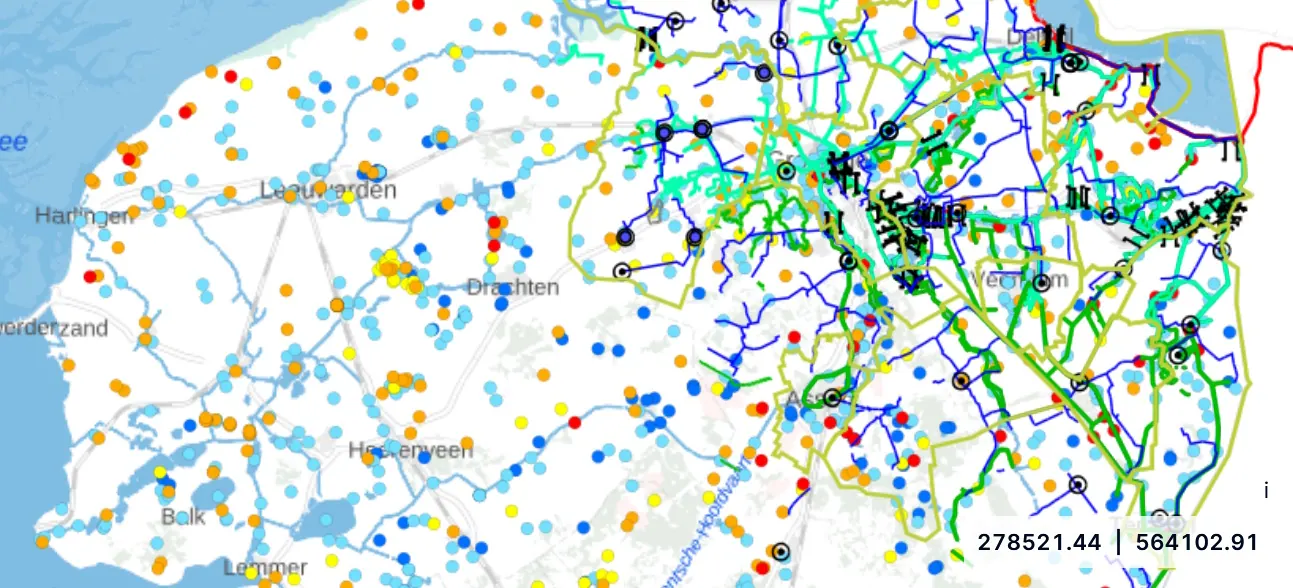
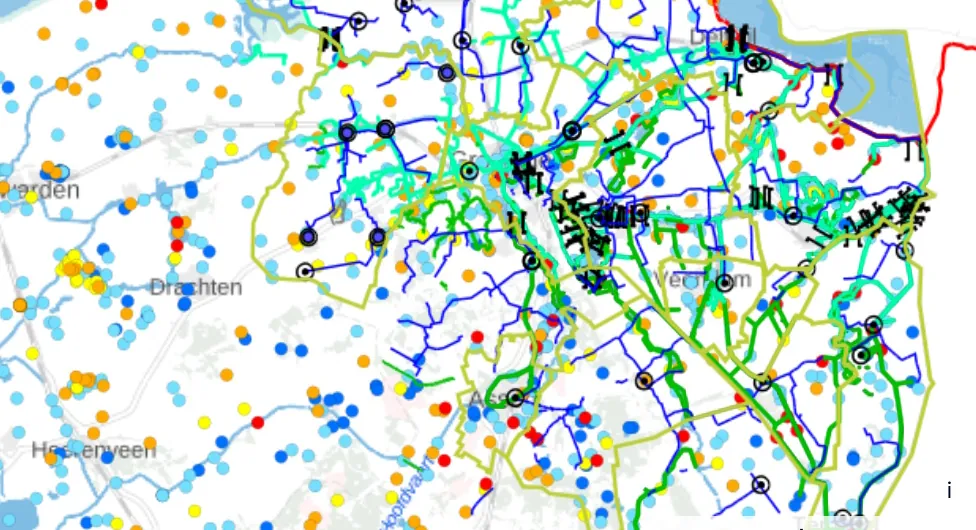
Hoofdpagina na eindcontrole: staander aan de kop, peilingring, datasheet op laptop, tekstafstand
De oranje staander hangt nu aan de korpsgrootte van de kop en snijdt
AUTONOMIE. op elke breedte; op mobiel stopt hij boven de lead. De
peilingring blijft boven de knoppen. De datasheet krijgt op 821 tot
1100 px een eigen maat en afbreekstreepjes. Het DSG-beeld toont
Groningen in plaats van Friesland. Tekstafstand (WCAG 1.4.12) breekt de
datum op telefoons niet meer uit beeld. Skiplink fixed, main focusbaar,
noscript-melding bij de peiling, tellers met 'signalen' als naam. De
FAQ volgt nu de bestelvlag, ook als build.py die doorgeeft.

diff --git a/tools/switchpage.py b/tools/switchpage.py
@@ -40,7 +40,9 @@ FAQ_BESTELZIN = {
     True: "Bestellen gaat via de uitstaptoets, vanuit je eigen uitkomst.",
 }
 
-FAQ = [
+def faq_lijst(bestel_aan):
+    """De veelgestelde vragen; de laatste zin van vraag 5 volgt de bestelvlag."""
+    return [
     ("Wat is digitale autonomie voor een overheid?",
      "Dat een overheid zelf kan kiezen. Per kritieke leverancier weten waar je data staat, of je die kunt "
      "meenemen en of er een alternatief is, zodat je blijft functioneren als een leverancier stopt, de prijs "
@@ -64,7 +66,7 @@ FAQ = [
      "Cbw-risicoanalyse, een agendapunt voor het bestuur, exitclausules voor je volgende aanbesteding, de "
      "eerste negentig dagen en een vergelijking met andere gemeenten. Het rapport kost 750 euro exclusief "
      "btw (907,50 euro inclusief), eenmalig. Een hermeting na een jaar kost 250 euro. "
-     + FAQ_BESTELZIN[BESTEL_AAN]),
+     + FAQ_BESTELZIN[bestel_aan]),
     ("Is dit juridisch advies? Zijn we hiermee compliant?",
      "Nee, en nee. Het rapport is input voor je eigen risicoanalyse en geen oordeel over naleving van de "
      "Cyberbeveiligingswet, de Data Act of het cloudbeleid. Het benoemt wat je weet, wat je niet weet en "
@@ -150,9 +152,9 @@ def overzicht_quote(n, q):
       </article>'''
 
 
-def faq_html():
+def faq_html(faq):
     out = []
-    for vraag, antwoord in FAQ:
+    for vraag, antwoord in faq:
         out.append(f'''    <details>
       <summary><h3>{html.escape(vraag)}</h3></summary>
       <div><p>{html.escape(antwoord)}</p></div>
@@ -166,9 +168,9 @@ def register_html():
         for i, (k, u) in enumerate(REGISTER, 1))
 
 
-def jsonld(cases):
+def jsonld(faq, bestel_aan):
     gewijzigd = TODAY.isoformat()  # de pagina verandert bij elke bouw (stand, tellers)
-    beschikbaar = "https://schema.org/InStock" if BESTEL_AAN else "https://schema.org/PreOrder"
+    beschikbaar = "https://schema.org/InStock" if bestel_aan else "https://schema.org/PreOrder"
     org = {
         "@type": "Organization", "@id": f"{BASE}/#organization",
         "name": "Will Switch", "alternateName": "willswitch.nl", "url": f"{BASE}/",
@@ -224,10 +226,10 @@ def jsonld(cases):
                "areaServed": {"@type": "Country", "name": "Nederland"},
                "audience": {"@type": "Audience", "audienceType": "Gemeenten, provincies, waterschappen, Rijk, zbo's en onderwijsinstellingen"},
                "offers": [offer("Uitstaprapport, eenmalig", "750.00"), offer("Hermeting na een jaar", "250.00")]}
-    faq = {"@type": "FAQPage", "@id": f"{BASE}/switch.html#faq",
-           "mainEntity": [{"@type": "Question", "name": v,
-                           "acceptedAnswer": {"@type": "Answer", "text": a}} for v, a in FAQ]}
-    graph = {"@context": "https://schema.org", "@graph": [org, site, page, toets, rapport, faq]}
+    faqpage = {"@type": "FAQPage", "@id": f"{BASE}/switch.html#faq",
+               "mainEntity": [{"@type": "Question", "name": v,
+                               "acceptedAnswer": {"@type": "Answer", "text": a}} for v, a in faq]}
+    graph = {"@context": "https://schema.org", "@graph": [org, site, page, toets, rapport, faqpage]}
     # '</' ontsnappen zodat een tekst met </script> het scriptblok nooit kan afbreken
     return json.dumps(graph, ensure_ascii=False, indent=2).replace("</", "<\\/")
 
@@ -246,6 +248,7 @@ CSS = """
   --lijn:rgba(26,22,18,.16); --oranje:#E84500; --knop:#D63F00; --link:#B83500;
   --op-inkt:rgba(240,237,230,.78); --op-inkt-2:rgba(240,237,230,.7); --lijn-inkt:rgba(240,237,230,.25);
   --mono:ui-monospace, 'Cascadia Mono', Consolas, Menlo, monospace;
+  --kop:clamp(80px, 9vw, 120px);
 }
 *, *::before, *::after { margin:0; padding:0; box-sizing:border-box; }
 html { overflow-x:clip; scrollbar-gutter:stable; scroll-behavior:smooth; }
@@ -287,10 +290,11 @@ header.top .w { display:flex; align-items:center; justify-content:space-between;
 .merk { display:flex; align-items:center; gap:18px; text-decoration:none; }
 .merk img { height:36px; width:auto; display:block; }
 .merk span { font-family:var(--mono); font-size:12px; letter-spacing:.08em; text-transform:uppercase; color:var(--zacht); line-height:1.5; padding-left:18px; border-left:1px solid var(--inkt); }
-.skip { position:absolute; left:-999px; top:8px; z-index:10; background:var(--inkt); color:var(--papier); padding:10px 14px; font-weight:700; text-decoration:none; }
+.skip { position:fixed; left:-999px; top:8px; z-index:10; background:var(--inkt); color:var(--papier); padding:10px 14px; font-weight:700; text-decoration:none; }
 .skip:focus { left:16px; }
+main:focus { outline:none; }
 nav.hoofd { display:flex; align-items:center; gap:32px; font-size:16px; }
-nav.hoofd a.l { text-decoration:none; padding:10px 0; }
+nav.hoofd a.l { text-decoration:none; padding:11px 0; }
 nav.hoofd a.l:hover { text-decoration:underline; text-underline-offset:4px; }
 nav.hoofd .kort { display:none; }
 
@@ -308,14 +312,17 @@ html:not(.js) .marge { opacity:1; }
 /* hero: de portal in een cirkel, de kop eroverheen */
 .hero { position:relative; overflow:hidden; min-height:760px; padding:56px 0 64px; background:var(--papier); }
 .hero .w { position:relative; display:grid; grid-template-columns:minmax(0, 1fr) auto; gap:24px; align-items:start; }
-.staander { position:absolute; top:-57px; right:calc(clamp(440px, 50vw, 640px) - 216px); width:96px; height:420px; background:var(--oranje); z-index:2; }
+/* De staander hangt aan de kop: 'AUTONOMIE.' is op elke breedte 6,09 keer de korpsgrootte breed,
+   het blok begint op 5,75 keer, zodat 'E.' er 40 px overheen loopt. */
+.staander { position:absolute; top:-57px; left:calc(var(--kop) * 5.75); width:96px; height:420px; background:var(--oranje); z-index:0; }
 .hero-tekst { grid-column:1; grid-row:1; position:relative; z-index:3; }
+.hero h1 { position:relative; z-index:1; }
 .hero h1 .vraag {
   display:block; font-family:var(--mono); font-size:15px; font-weight:400;
   letter-spacing:.1em; text-transform:uppercase; line-height:1.6; margin-bottom:28px;
 }
 .hero h1 .groot {
-  display:block; font-size:clamp(80px, 9vw, 120px); font-weight:800; text-transform:uppercase;
+  display:block; font-size:var(--kop); font-weight:800; text-transform:uppercase;
   line-height:.88; letter-spacing:-.035em; white-space:nowrap;
 }
 .hero .lead { margin-top:32px; font-size:24px; line-height:1.3; max-width:30ch; }
@@ -326,7 +333,7 @@ html:not(.js) .marge { opacity:1; }
 .hero .acties { flex-direction:column; align-items:flex-start; gap:12px; }
 .hero-link { margin-top:18px; }
 .portal-wrap { grid-column:2; grid-row:1; position:relative; width:clamp(440px, 50vw, 640px); aspect-ratio:1; margin-top:180px; margin-right:-40px; }
-@media (min-width:1400px) { .portal-wrap { margin-right:-180px; } .staander { right:calc(640px - 216px - 140px); } }
+@media (min-width:1400px) { .portal-wrap { margin-right:-180px; } }
 .portal {
   position:relative; z-index:1; width:100%; height:100%; border-radius:50%; overflow:hidden;
   background:#cfd4cf url('/switch-hero.webp') 13% 64% / auto 140% no-repeat;
@@ -392,7 +399,7 @@ html:not(.js) .marge { opacity:1; }
 table.datasheet { width:100%; table-layout:fixed; border-collapse:collapse; border-top:2px solid var(--papier); }
 .datasheet .c-strook { width:12px; }
 .datasheet .c-status { width:88px; }
-.datasheet .c-kader { width:40%; }
+.datasheet .c-kader { width:42%; }
 .datasheet tr { border-bottom:1px solid var(--lijn-inkt); vertical-align:top; }
 .datasheet td, .datasheet th { padding:24px 16px; text-align:left; }
 .datasheet td.strook { width:12px; padding:0; }
@@ -401,7 +408,13 @@ table.datasheet { width:100%; table-layout:fixed; border-collapse:collapse; bord
 .datasheet td.strook.omlijnd { box-shadow:inset 0 0 0 1.5px var(--papier); }
 .datasheet td.status { font-family:var(--mono); font-size:12px; text-transform:uppercase; letter-spacing:.06em; color:var(--papier); white-space:nowrap; padding-left:12px; padding-right:8px; }
 .datasheet th { padding-left:0; }
-.datasheet th h3 { font-size:22px; line-height:1.1; overflow-wrap:anywhere; }
+.datasheet th h3 { font-size:22px; line-height:1.1; hyphens:auto; }
+@media (min-width:821px) and (max-width:1100px) {
+  .datasheet th h3 { font-size:20px; }
+  .datasheet .c-kader { width:46%; }
+  .datasheet td.wat p { font-size:16px; }
+  .wetgeving .rij2 { grid-template-columns:4fr 8fr; gap:32px; }
+}
 .datasheet th .sub { display:block; font-size:15px; font-weight:400; color:var(--op-inkt-2); margin-top:6px; }
 .datasheet th .sinds { display:block; font-family:var(--mono); font-size:12px; font-weight:400; color:var(--op-inkt-2); line-height:1.6; margin-top:14px; }
 .datasheet td.wat p { font-size:17px; color:rgba(240,237,230,.86); max-width:48ch; }
@@ -543,7 +556,8 @@ figure.uitsteek img { width:100%; height:auto; aspect-ratio:16/10; object-fit:co
 .movement-btn.selected { background:var(--knop); border-color:var(--knop); color:#fff; }
 .movement-btn.selected .count { color:#fff; }
 .movement-btn.pulse { transform:scale(1.03); }
-.ring.orbit-open { width:620px; height:620px; border-width:1.5px; opacity:.6; right:-200px; top:-300px; }
+.ring.orbit-open { width:560px; height:560px; border-width:1.5px; opacity:.6; right:-220px; top:-340px; }
+.movement-grid { position:relative; z-index:1; }
 .ring.orbit-open::before { content:""; position:absolute; top:-4px; left:50%; width:24px; height:8px; background:var(--inkt); }
 
 /* agenda en supporters */
@@ -601,23 +615,26 @@ html:not(.js) .tabelwrap td.strook.oranje { transform:none; }
 @media (max-width:820px) {
   .w { padding:0 16px; }
   header.top .w { min-height:64px; }
-  .merk img { height:30px; }
+  .merk { flex-shrink:0; }
+  .merk img { max-width:none; height:26px; }
+  nav.hoofd .knop { padding:0 14px; }
   .merk span { display:none; }
-  nav.hoofd { gap:16px; font-size:15px; }
+  nav.hoofd { gap:12px; font-size:15px; }
   nav.hoofd .lang { display:none; }
   nav.hoofd .kort { display:inline; }
   .hero { min-height:0; padding:32px 0 48px; }
   .hero .w { display:block; }
-  .staander { top:-33px; left:auto; right:16px; width:40px; height:290px; }
+  :root { --kop:clamp(40px, 13vw, 64px); }
+  .staander { top:-33px; left:auto; right:0; width:40px; height:224px; }
   .hero h1 .vraag { font-size:13px; }
-  .hero h1 .groot { font-size:clamp(40px, 13vw, 64px); letter-spacing:-.04em; line-height:.9; white-space:normal; overflow-wrap:anywhere; }
+  .hero h1 .groot { letter-spacing:-.04em; line-height:.9; white-space:normal; overflow-wrap:anywhere; }
   .portal-wrap { width:min(88vw, 560px); margin-left:auto; margin-right:-14vw; margin-top:12px; }
   .ring.orbit { display:none; }
-  .tekstlink { display:inline-block; padding:9px 0; margin-bottom:-9px; }
+  .tekstlink { display:inline-block; padding:10px 0; margin-bottom:-10px; }
+  .agenda .what a, .credits .context a, footer.site a { display:inline-block; padding:10px 0; margin:-10px 0; }
   .merk { padding:7px 0; }
   nav.hoofd a.l { padding:11px 0; }
   .fonds { padding:8px 0; }
-  .wetgeving .rij0, .datasheet td.status, .datasheet th .sinds, .prijs .mono, .opschrift, .item .kicker, .item.quote .attr, .tegel .mono, .item .vlag { font-size:13px; }
   .hero .lead { font-size:20px; margin-top:24px; }
   .hero .sub { font-size:17px; }
   .hero .acties { margin-top:24px; }
@@ -636,10 +653,10 @@ html:not(.js) .tabelwrap td.strook.oranje { transform:none; }
   .citaat .lijn { width:4px; top:-40px; bottom:-40px; }
   .stemmen .ring { width:360px; height:360px; left:-200px; top:-120px; }
   .wetgeving { padding:48px 0 0; }
-  .wetgeving .rij1, .wetgeving .rij2 { grid-template-columns:1fr; gap:24px; }
+  .wetgeving .rij1, .wetgeving .rij2 { grid-template-columns:minmax(0, 1fr); gap:24px; }
   .wetgeving h2 { font-size:32px; }
   .ladder .d { font-size:44px; }
-  .ladder .datum { font-size:clamp(64px, 22vw, 88px); }
+  .ladder .datum { font-size:clamp(56px, 17vw, 88px); }
   .datasheet colgroup { display:none; }
   table.datasheet, .datasheet tbody, .datasheet tr, .datasheet th, .datasheet td { display:block; width:auto; }
   .datasheet tr { border-top:1px solid var(--lijn-inkt); border-bottom:0; padding:20px 0 20px 16px; position:relative; }
@@ -669,7 +686,7 @@ html:not(.js) .tabelwrap td.strook.oranje { transform:none; }
   .verhalen h2 { font-size:32px; }
   .verhalen .ring { display:none; }
   figure.uitsteek { margin:0 -16px; }
-  figure.uitsteek img { aspect-ratio:4/3; }
+  figure.uitsteek img { aspect-ratio:4/3; object-position:70% 50%; }
   .klein-verhalen article { grid-template-columns:1fr; }
   .tegel { aspect-ratio:auto; height:120px; }
   .overzicht { padding:0 0 40px; }
@@ -693,6 +710,7 @@ html:not(.js) .tabelwrap td.strook.oranje { transform:none; }
   footer.site .w { flex-direction:column; align-items:flex-start; gap:12px; }
 }
 
+@media (max-width:400px) { nav.hoofd a.l { display:none; } }
 @media (prefers-reduced-motion: reduce) {
   html { scroll-behavior:auto; }
   .kraak .k-tekst, .datum.kraak .s, .portal::before, .portal::after, .uitsteek::before, .uitsteek::after { animation:none !important; }
@@ -775,6 +793,7 @@ MOVEMENT_SCRIPT = """
       function setCount(phase, value) {
         countEl(phase).textContent = value;
         countEl(phase).removeAttribute('aria-hidden');
+        countEl(phase).setAttribute('aria-label', value + ' signalen');
       }
       function onthoud(phase) {
         try { localStorage.setItem(STORAGE_KEY, phase); } catch (e) {}
@@ -925,10 +944,10 @@ PAGE = """<!DOCTYPE html>
   <nav class="hoofd" aria-label="Hoofdnavigatie"><a class="l" href="#verhalen">Praktijk</a><a class="l" href="#rapport">Rapport</a><a class="knop" href="/scan/"><span class="lang">Uitstaptoets</span><span class="kort">Toets</span> <span aria-hidden="true">&rarr;</span></a></nav>
 </div></header>
 
-<main id="inhoud">
+<main id="inhoud" tabindex="-1">
 <section class="hero" data-kraak><div class="w">
-  <div class="staander" aria-hidden="true"></div>
   <div class="hero-tekst">
+    <div class="staander" aria-hidden="true"></div>
     <h1><span class="vraag">Kun je nog weg<br>bij je<br>leveranciers?</span><span class="groot k-tekst">Digitale<br>autonomie.</span></h1>
     <p class="lead">Niet alles hoeft anders. Maar je moet wel kunnen kiezen.</p>
     <p class="sub">Sinds 15 augustus 2026 moet je bestuur die vraag per leverancier kunnen beantwoorden. De gratis uitstaptoets laat in een kwartier zien waar je staat. Het uitstaprapport zegt wat je daarna doet.</p>
@@ -996,7 +1015,7 @@ PAGE = """<!DOCTYPE html>
           <tr role="row">
             <td class="strook oranje" role="cell"></td>
             <td class="status" role="cell">nu</td>
-            <th scope="row" role="rowheader"><h3>Cyberbeveiligingswet: ketenzorgplicht per leverancier</h3><span class="sub">Van kracht sinds 15 augustus 2026</span><span class="sinds">wet, voor Rijk, zbo's, gemeenten, provincies en waterschappen<br>de zorgplicht geldt al</span></th>
+            <th scope="row" role="rowheader"><h3>Cyberbeveiligings&shy;wet: ketenzorgplicht per leverancier</h3><span class="sub">Van kracht sinds 15 augustus 2026</span><span class="sinds">wet, voor Rijk, zbo's, gemeenten, provincies en waterschappen<br>de zorgplicht geldt al</span></th>
             <td class="wat" role="cell">
               <p>Per leverancier moet je kunnen aantonen wat er gebeurt bij contracteinde, faillissement of overname. Het bestuur is eindverantwoordelijk, en de toezichthouder kan ernaar vragen.</p>
               {link_cbw}
@@ -1098,7 +1117,7 @@ PAGE = """<!DOCTYPE html>
     </div>
     <div>
       <figure class="uitsteek" style="--src:url(/dsg-viewer.webp)" data-kraak>
-        <img src="/dsg-viewer.webp" alt="Kaartviewer van Data Space Groningen" width="1293" height="588" loading="lazy">
+        <img src="/dsg-viewer.webp" alt="Kaartviewer van Data Space Groningen" width="976" height="530" loading="lazy">
         <figcaption class="opschrift marge">data space groningen<br>samen data, meer waarde<br>17 organisaties, 1 open platform</figcaption>
       </figure>
       <div class="dsg-tekst">
@@ -1134,6 +1153,7 @@ PAGE = """<!DOCTYPE html>
       <button class="movement-btn" data-phase="overstap" type="button" aria-pressed="false"><span class="label">We stappen over</span><span class="count" data-count aria-hidden="true">&middot;</span></button>
       <button class="movement-btn" data-phase="verder" type="button" aria-pressed="false"><span class="label">We zijn al verder</span><span class="count" data-count aria-hidden="true">&middot;</span></button>
     </div>
+    <noscript><style>.movement-grid, .movement .confirm {{ display:none; }}</style><p class="sub">De peiling werkt alleen met JavaScript.</p></noscript>
   </div>
 </section>
 
@@ -1180,10 +1200,11 @@ PAGE = """<!DOCTYPE html>
 """
 
 
-def build_switch(cases):
+def build_switch(cases, bestel_aan=BESTEL_AAN):
     """Maak switch.html uit de gepubliceerde cases en de quotes.
     De nummering wordt hier geschreven, niet in de browser."""
     ids = [c["id"] for c in cases]
+    faq = faq_lijst(bestel_aan)
     blokken = []
     n = 0
     for c in cases:
@@ -1195,7 +1216,12 @@ def build_switch(cases):
 
     dagen_cbw = (TODAY - CBW_DATUM).days
     dagen_dataact = (DATAACT_DATUM - TODAY).days
-    teller_cbw = f"de zorgplicht geldt al {dagen_cbw} dagen" if dagen_cbw >= 0 else "de zorgplicht gaat in op 15.08.2026"
+    if dagen_cbw > 0:
+        teller_cbw = f"de zorgplicht geldt al {dagen_cbw} dagen"
+    elif dagen_cbw == 0:
+        teller_cbw = "de zorgplicht geldt sinds vandaag"
+    else:
+        teller_cbw = "de zorgplicht gaat in op 15.08.2026"
     teller_dataact = (f"nog {dagen_dataact} dagen tot de Data Act" if dagen_dataact > 0
                       else "de Data Act geldt sinds 12.01.2027")
 
@@ -1205,7 +1231,7 @@ def build_switch(cases):
         titel=TITEL,
         omschrijving=OMSCHRIJVING,
         hero_alt=HERO_ALT,
-        jsonld=jsonld(cases),
+        jsonld=jsonld(faq, bestel_aan),
         stand=TODAY.strftime("%d.%m.%Y"),
         teller_cbw=teller_cbw,
         teller_dataact=teller_dataact,
@@ -1213,8 +1239,8 @@ def build_switch(cases):
         link_dataact=case_link(ids, "dataact", "Wat de Data Act regelt als je van cloud wilt overstappen"),
         link_cloudbeleid=case_link(ids, "cloudbeleid", "Wat het rijksbreed cloudbeleid eist"),
         register=register_html(),
-        bestel_tekst=BESTEL_TEKST[BESTEL_AAN],
-        faq=faq_html(),
+        bestel_tekst=BESTEL_TEKST[bestel_aan],
+        faq=faq_html(faq),
         aantal=n,
         items="\n\n".join(blokken),
         movement_script=MOVEMENT_SCRIPT,
